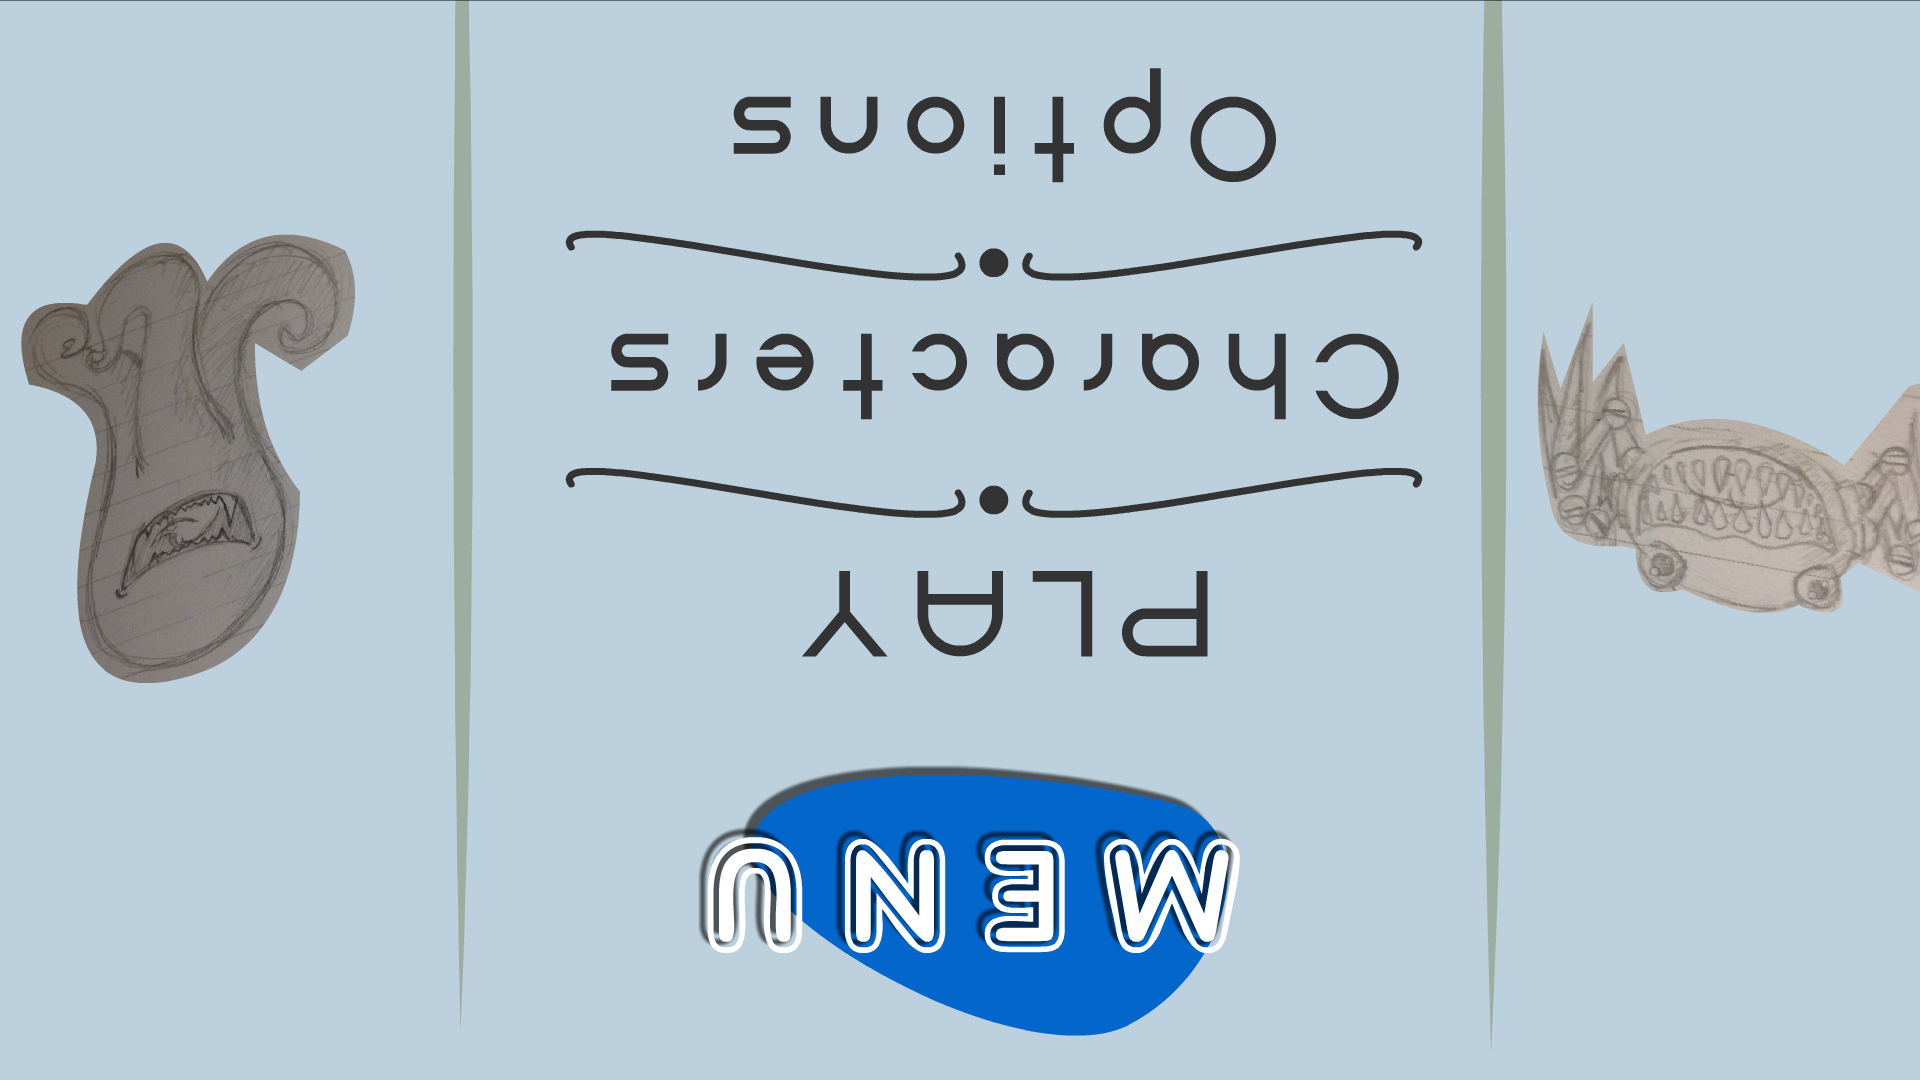
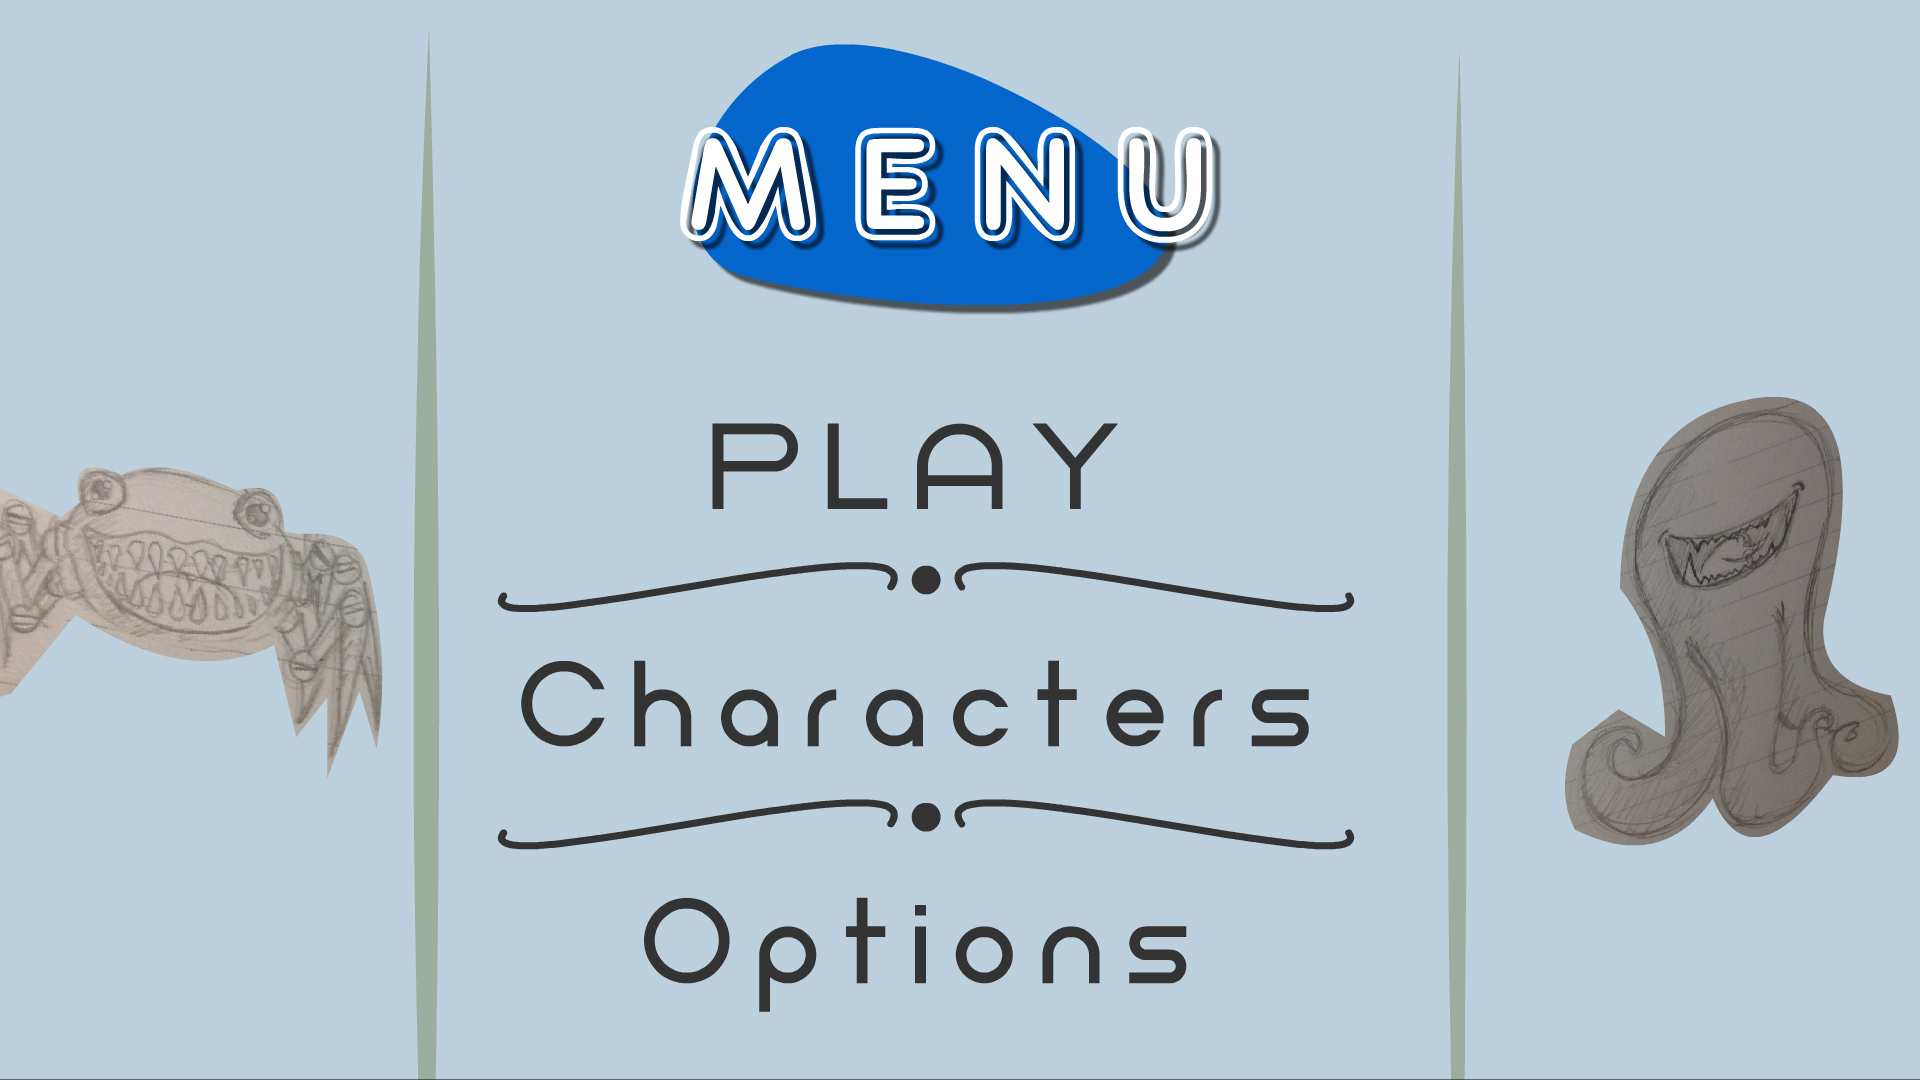
trying to get the latest build

Changed region(s): [[0.2812, 0.0, 1.0, 1.0], [0.0, 0.0, 0.7188, 1.0], [0.3438, 0.5194, 0.7188, 0.6111]]

diff --git a/Unity Project/Assets/GUI/GUI Scripts/StartScreenGUI.cs b/Unity Project/Assets/GUI/GUI Scripts/StartScreenGUI.cs
@@ -3,76 +3,24 @@ using System.Collections;
 
 public class StartScreenGUI : MonoBehaviour {
 
-	float titleWidth = 100;
-	float titleHeight = 100;
-	float buttonWidth = 200;
-	float buttonHeight = 200;
-	float scale = 0f;
-	public Texture2D buttonBackground;
-    string playButton;
-    string instructionButton;
-    public Transform target;
-    public float movementSpeed;
-	
-	// Use this for initialization
-	void Start () {
-		scale = Mathf.Max (Screen.width / 326, Screen.height / 435);
-		titleWidth *= scale;
-		titleHeight *= scale;
-		buttonWidth *= scale;
-		buttonHeight *= scale;
+	public GUITexture MainMenu;
+	float scaleFactor;
 
-        if (Application.loadedLevelName == "ScoreScreen")
-        {
-            playButton = "Play Again";
-            instructionButton = "Main Menu";
-        }
-        else
-        {
-            playButton = "Play";
-            instructionButton = "Instructions";
-        }
+	void Start(){
+		scaleFactor = Mathf.Max (Screen.width / MainMenu.pixelInset.width, Screen.height / MainMenu.pixelInset.height);
+		float newWidth = MainMenu.pixelInset.width * scaleFactor;
+		float newHeight = MainMenu.pixelInset.height * scaleFactor;
+		MainMenu.pixelInset = new Rect (-newWidth / 2, -newHeight / 2, newWidth, newHeight);
 	}
 	
 	// Update is called once per frame
 	void Update () {
-        
-		
 	}
-	
+
 	void OnGUI(){
-		GUIStyle style = new GUIStyle ();
-		style.fontSize = Mathf.RoundToInt(40*scale);
-		style.normal.textColor = Color.white;
-		style.alignment = TextAnchor.UpperCenter;
-		GUI.Label (new Rect(Screen.width/2 - titleWidth/2, Screen.height * 0.05f*scale, titleWidth, titleHeight), "Word Snack",style);
-		
-		
-		GUIStyle ButtonStyle = new GUIStyle ();
-		ButtonStyle.fontSize = Mathf.RoundToInt(32*scale);
-		ButtonStyle.normal.textColor = Color.white;
-		ButtonStyle.normal.background = buttonBackground;
-		ButtonStyle.alignment = TextAnchor.LowerCenter;
-		GUI.BeginGroup (new Rect (Screen.width / 2 - buttonWidth/2, Screen.height * 0.5f, buttonWidth, buttonHeight));
-		if (GUILayout.Button (playButton, ButtonStyle)) {
-			Debug.Log ("Play is pressed");
-			Application.LoadLevel("CharacterSelect");
-		}
-		if (GUILayout.Button ( instructionButton, ButtonStyle))
-        {
-            if (Application.loadedLevelName == "ScoreScreen")
-            {
-                Debug.Log("Main Menu Clicked.");
-                Application.LoadLevel("StartScreen");
-            }
-        }
-		GUILayout.Button ( "About", ButtonStyle);
-		GUI.EndGroup ();
-		
-		Debug.Log (Screen.height);
-		Debug.Log (Screen.width);
+		GUI.Button(new Rect (Screen.width*0.35f, Screen.height*0.36f, Screen.width*0.25f, Screen.height*0.12f), "Play");
+		GUI.Button(new Rect (Screen.width*0.25f, Screen.height*0.6f, Screen.width*0.45f, Screen.height*0.12f), "Play");
+		GUI.Button(new Rect (Screen.width*0.28f, Screen.height*0.81f, Screen.width*0.4f, Screen.height*0.12f), "Play");
 	}
 
-
-    public GUIStyle ButtonStyle { get; set; }
 }
